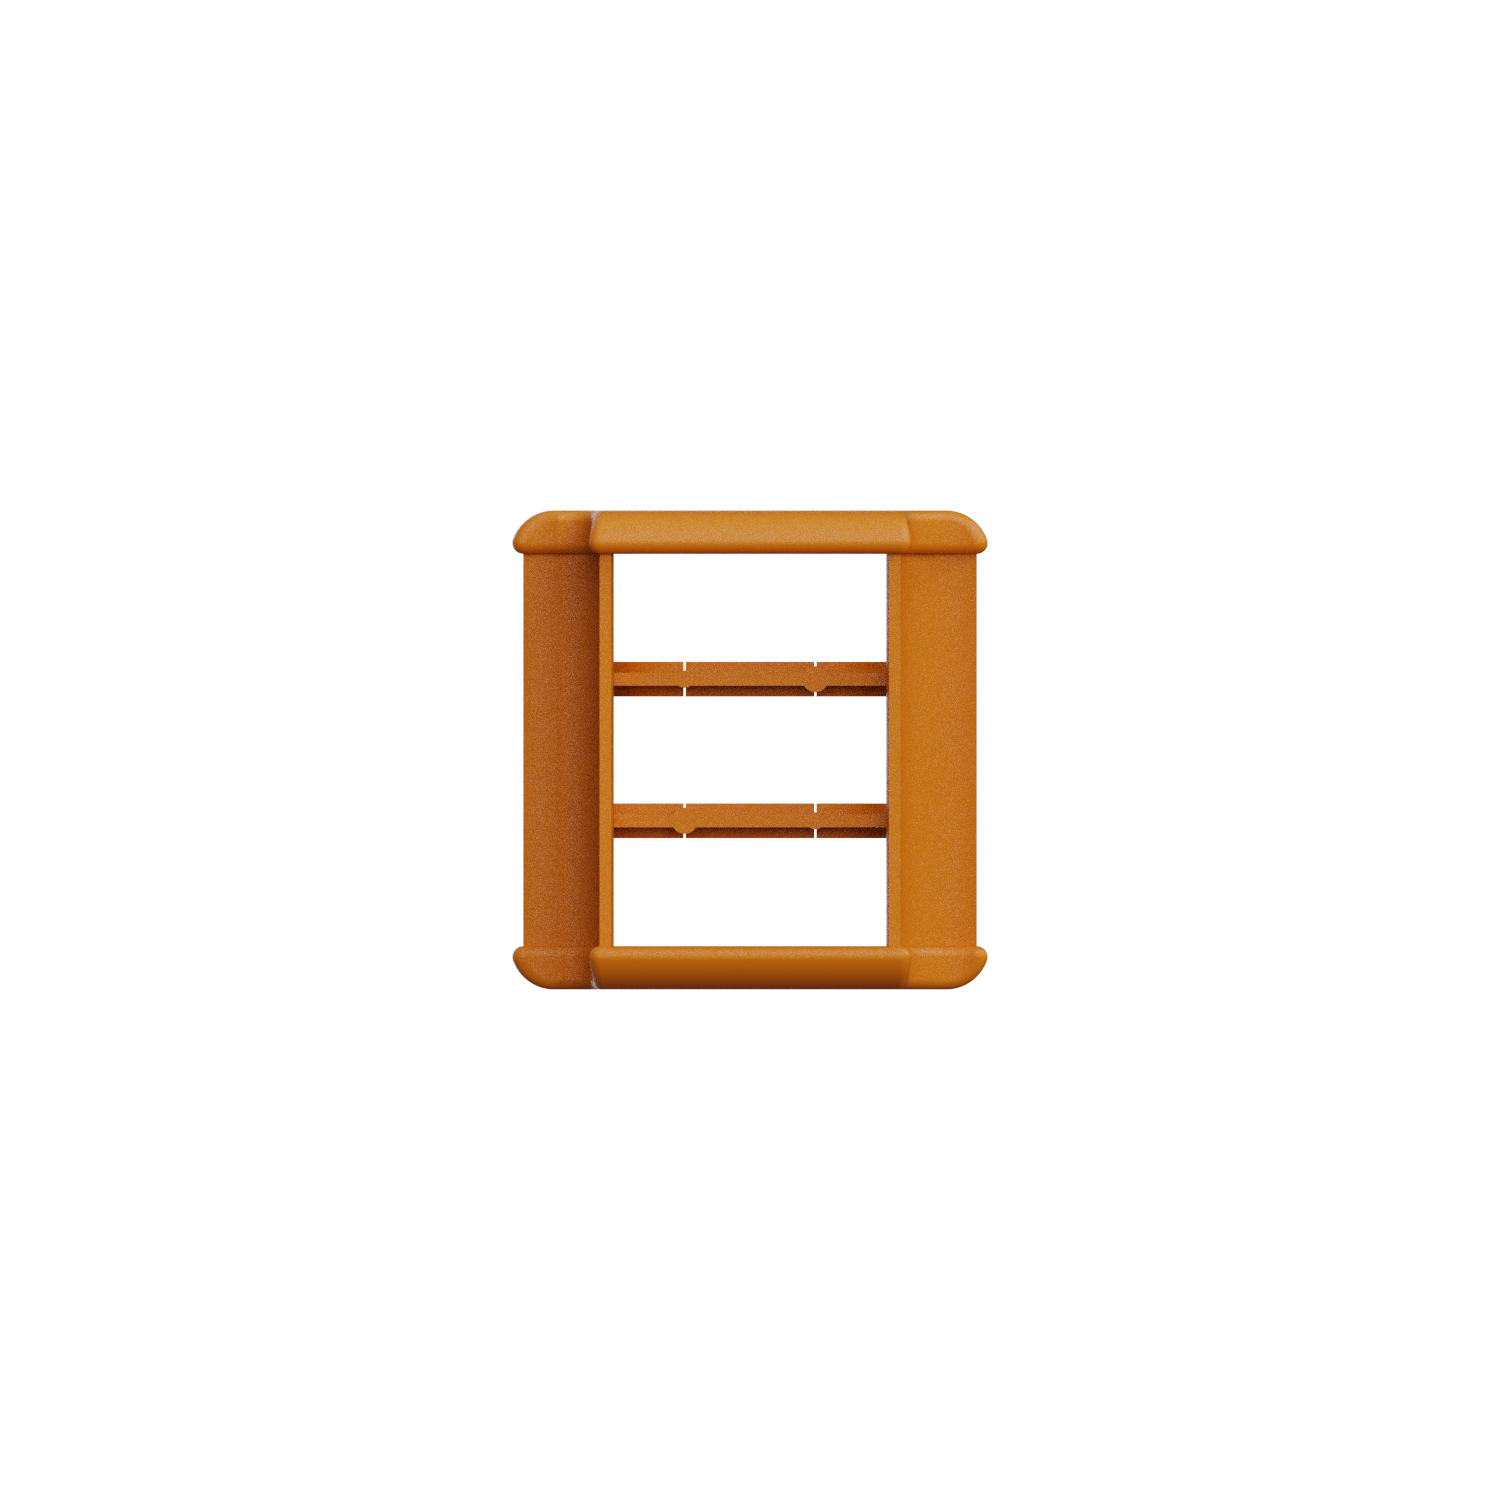
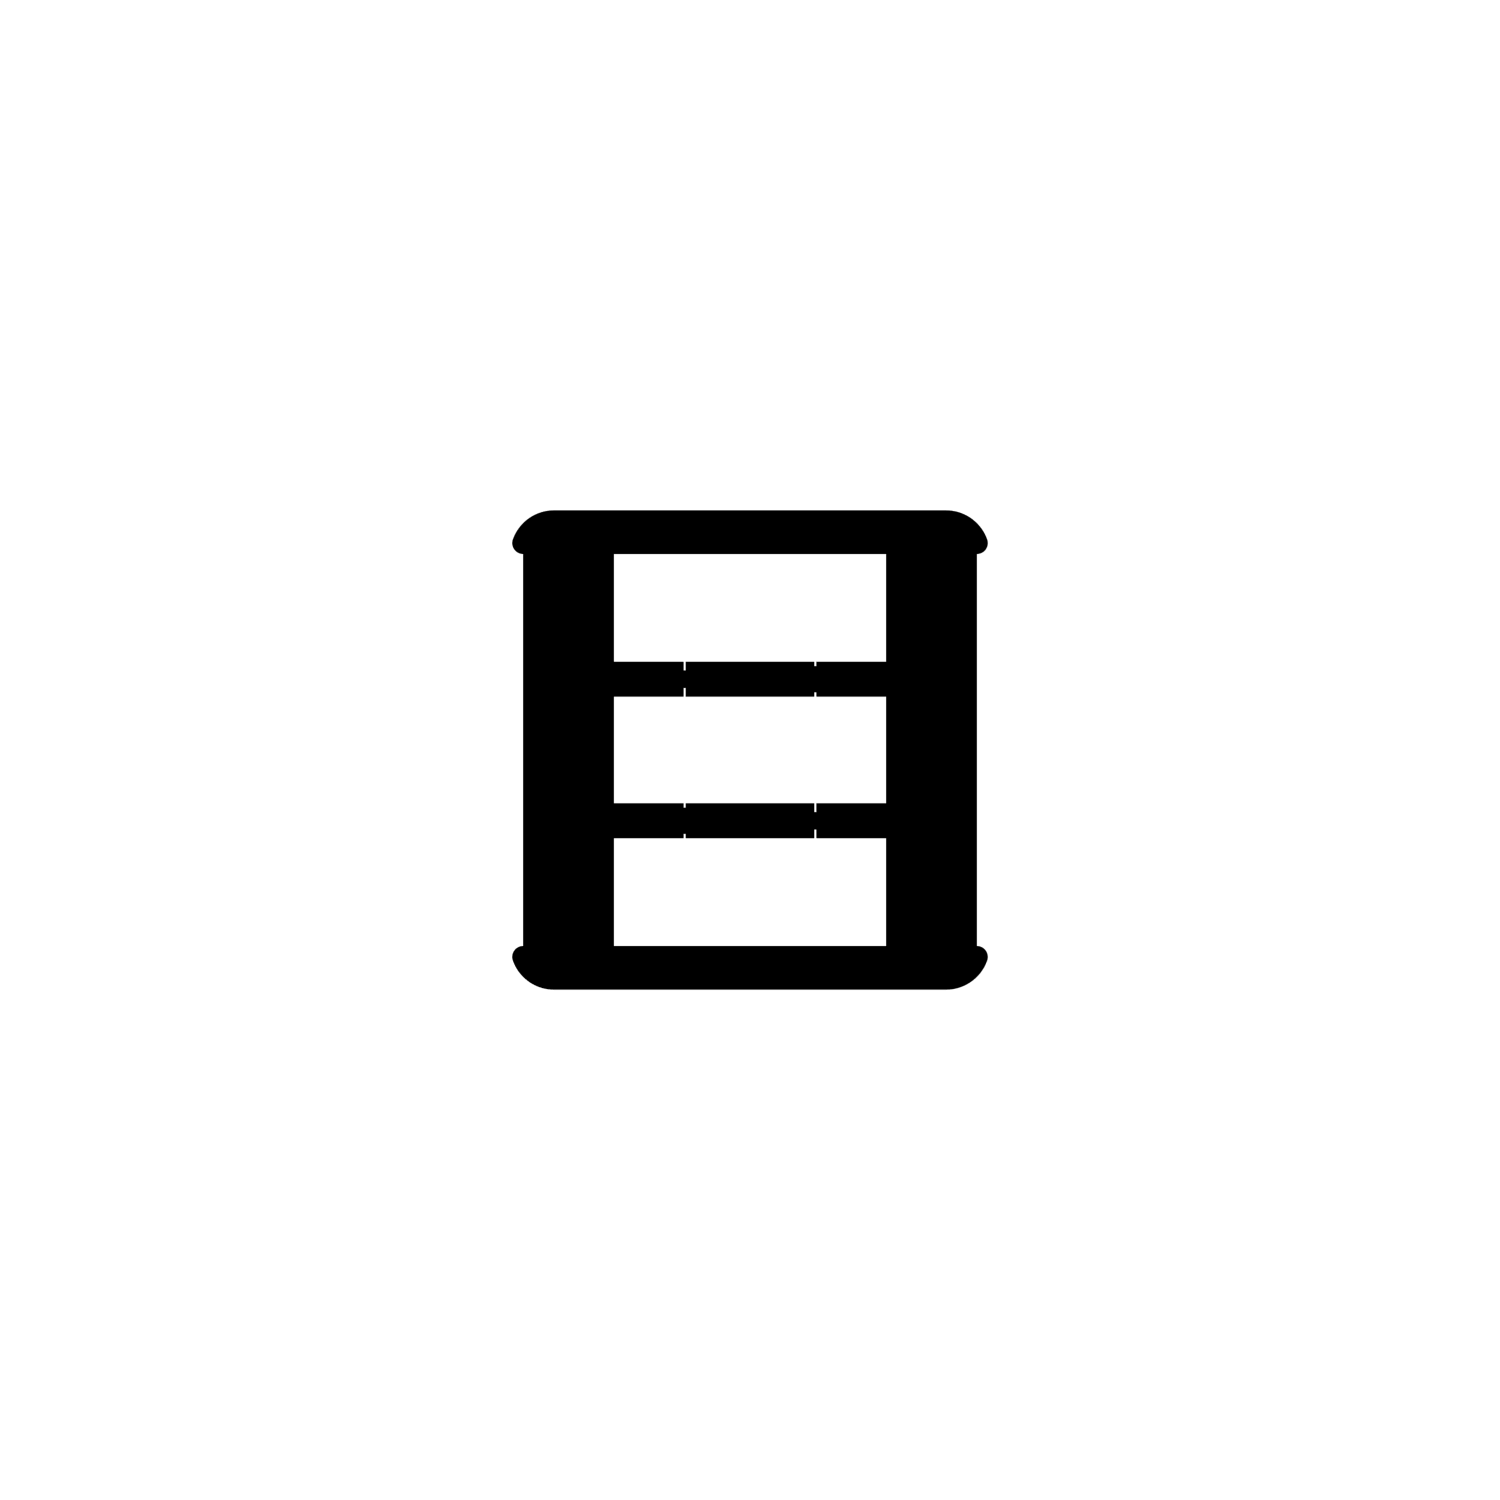
Add poster images to videos to prevent flicker on load
User feedback: Initial flickering was noticeable when gallery loads

Solution:
- Added poster parameter to createVideo function
- Videos now show PNG poster image before video loads
- Uses existing PNG files (e.g., miro.png for miro.mp4)
- Eliminates blank/flickering state during video loading

How it works:
1. Page loads → PNG poster shows immediately (fast, small files)
2. User scrolls → Video starts loading in background
3. Video ready → Seamlessly transitions from poster to video

Benefits:
- No flickering or blank tiles during load
- Better perceived performance
- Uses existing PNG assets (no new files needed)
- Maintains video quality (no compression)

🤖 Generated with [Claude Code](https://claude.com/claude-code)

Changed region(s): [[0.3373, 0.3373, 0.6747, 0.6747]]

diff --git a/docs/js/gallery.js b/docs/js/gallery.js
@@ -78,10 +78,10 @@
     } catch { return false; }
   }
 
-  // ====== 비디오 생성 공통 함수 (lazy loading + 성능 최적화) ======
+  // ====== 비디오 생성 공통 함수 (lazy loading + 포스터 이미지로 깜빡임 방지) ======
   let observer = null; // 싱글톤 observer 재사용
 
-  function createVideo(src, speed = 1) {
+  function createVideo(src, speed = 1, posterSrc = "") {
     const video = document.createElement("video");
     video.muted = true;
     video.loop = true;
@@ -93,6 +93,11 @@
     video.dataset.src = src; // 실제 src는 나중에 설정
     video.dataset.speed = speed;
     video.dataset.loaded = "false"; // 로드 상태 추적
+
+    // 포스터 이미지 설정 (비디오 로드 전 깜빡임 방지)
+    if (posterSrc) {
+      video.poster = posterSrc;
+    }
 
     // IntersectionObserver로 화면에 보일 때만 로드
     if ("IntersectionObserver" in window) {
@@ -155,7 +160,9 @@
     const src = icon ? (effectiveOn ? icon.orange : icon.black) : "";
 
     if (src && src.endsWith(".mp4")) {
-      wrap.appendChild(createVideo(src, 0.6));
+      // 포스터 이미지: 비디오와 같은 이름의 PNG 파일 사용
+      const posterSrc = src.replace('.mp4', '.png');
+      wrap.appendChild(createVideo(src, 0.6, posterSrc));
     }
 
     el.appendChild(wrap);
